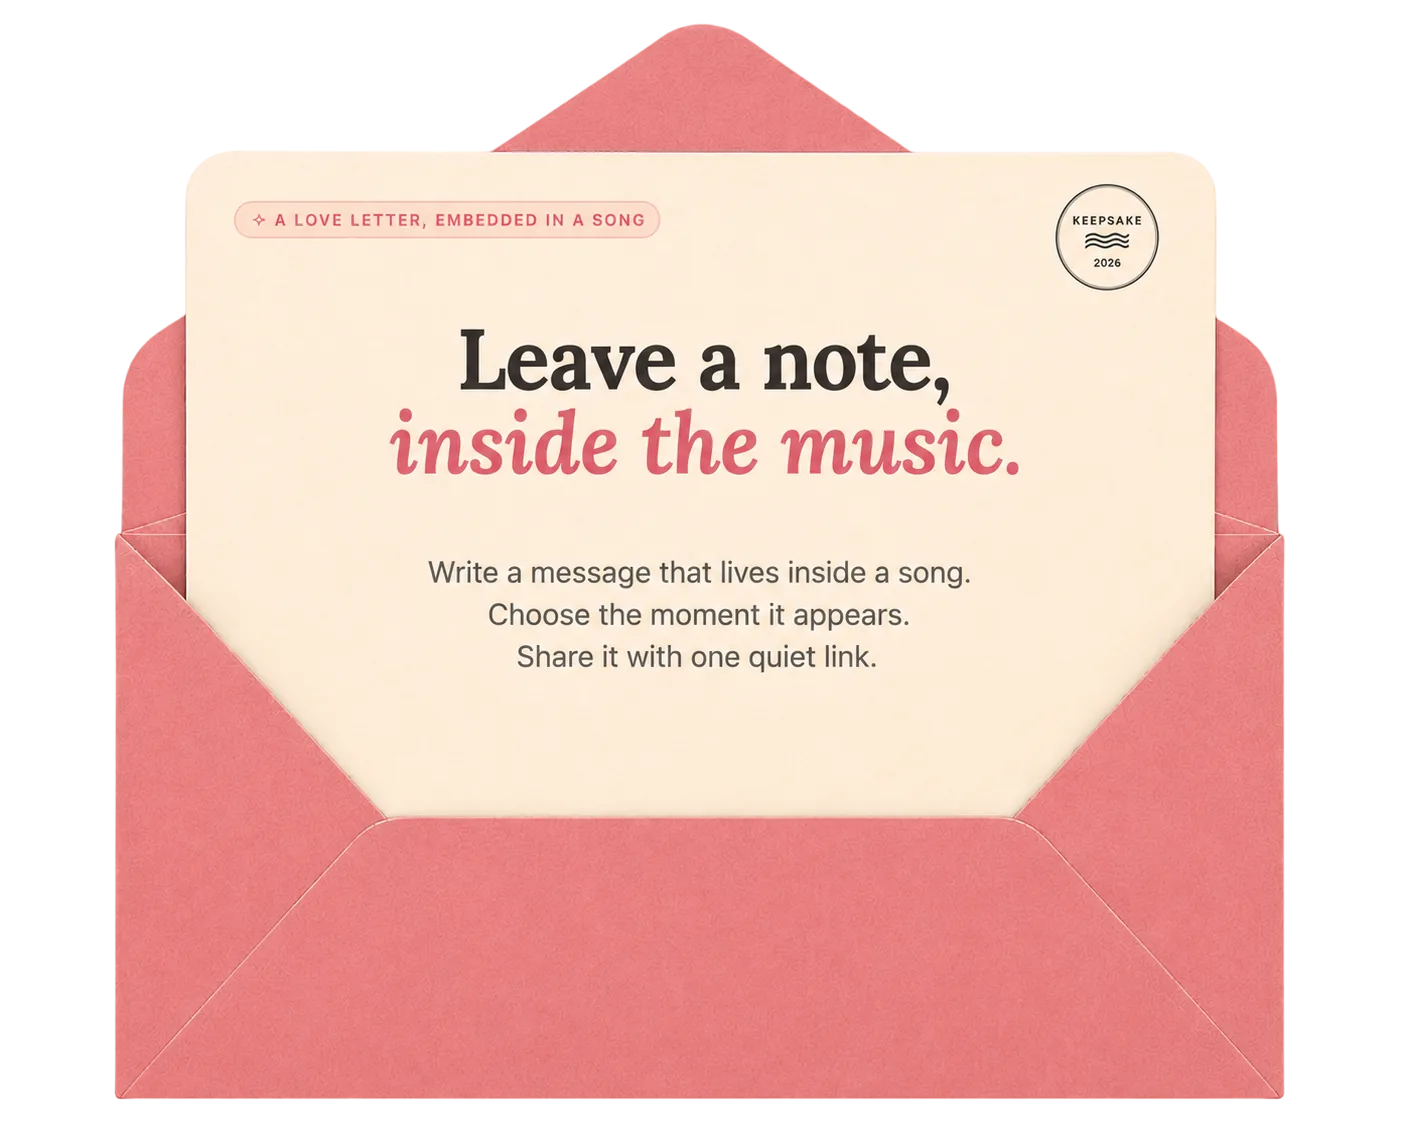
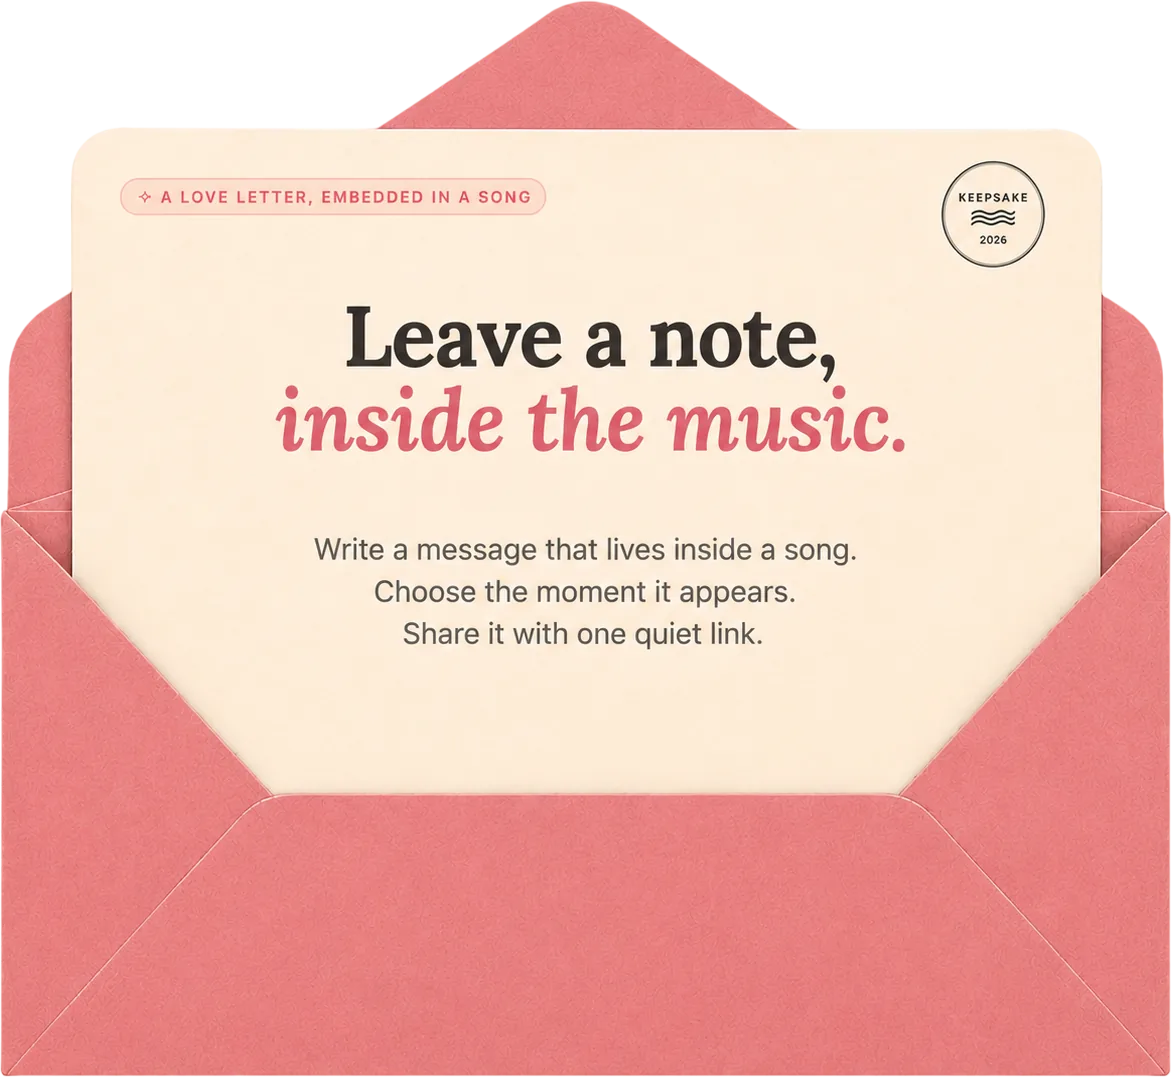
Homepage: trim env4 envelope whitespace so it fills the container
- Crop transparent padding from env4.webp (1402x1122 → 1172x1077); the
  envelope now spans the full container width instead of sitting inside
  ~16% side margins, so it reads as large as the hero illustration.
- Re-tune Chrome button to the trimmed fold (73.8%): bottom calc(27.3%+20px)
  → calc(26.2%+20px).

Changed region(s): [[0.0, 0.0, 1.0, 1.0], [0.215, 0.2758, 0.7679, 0.429], [0.2765, 0.4903, 0.7372, 0.6128]]

diff --git a/index.html b/index.html
@@ -207,8 +207,8 @@
     /* Block 4 — CTA button — sits just above the envelope fold (~57%) */
     .env-cta-block {
       position: absolute;
-      /* fold (front-flap apex) is at 72.7% of the env4 image; sit ~20px above it on the cream */
-      bottom: calc(27.3% + 20px);
+      /* fold (front-flap apex) is at 73.8% of the trimmed env4 image; sit ~20px above it on the cream */
+      bottom: calc(26.2% + 20px);
       left: 50%;
       transform: translateX(-50%);
       display: flex;